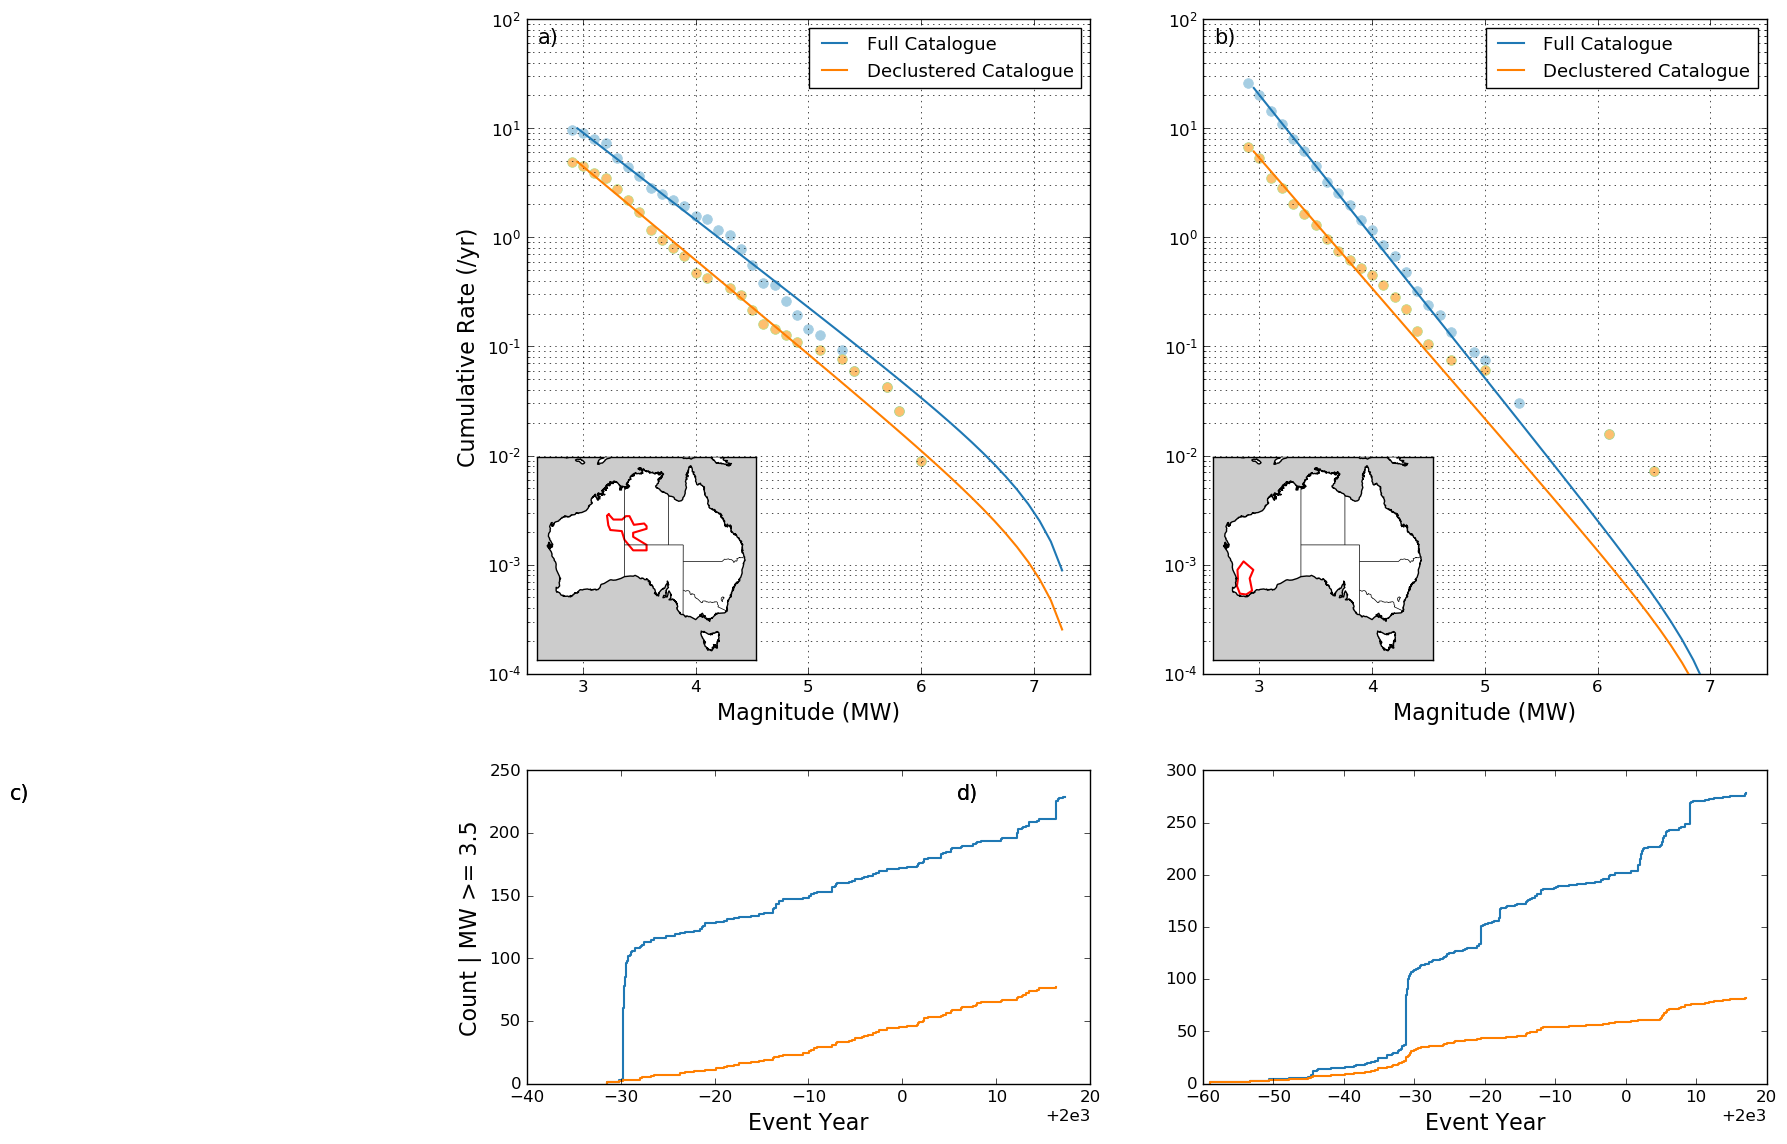
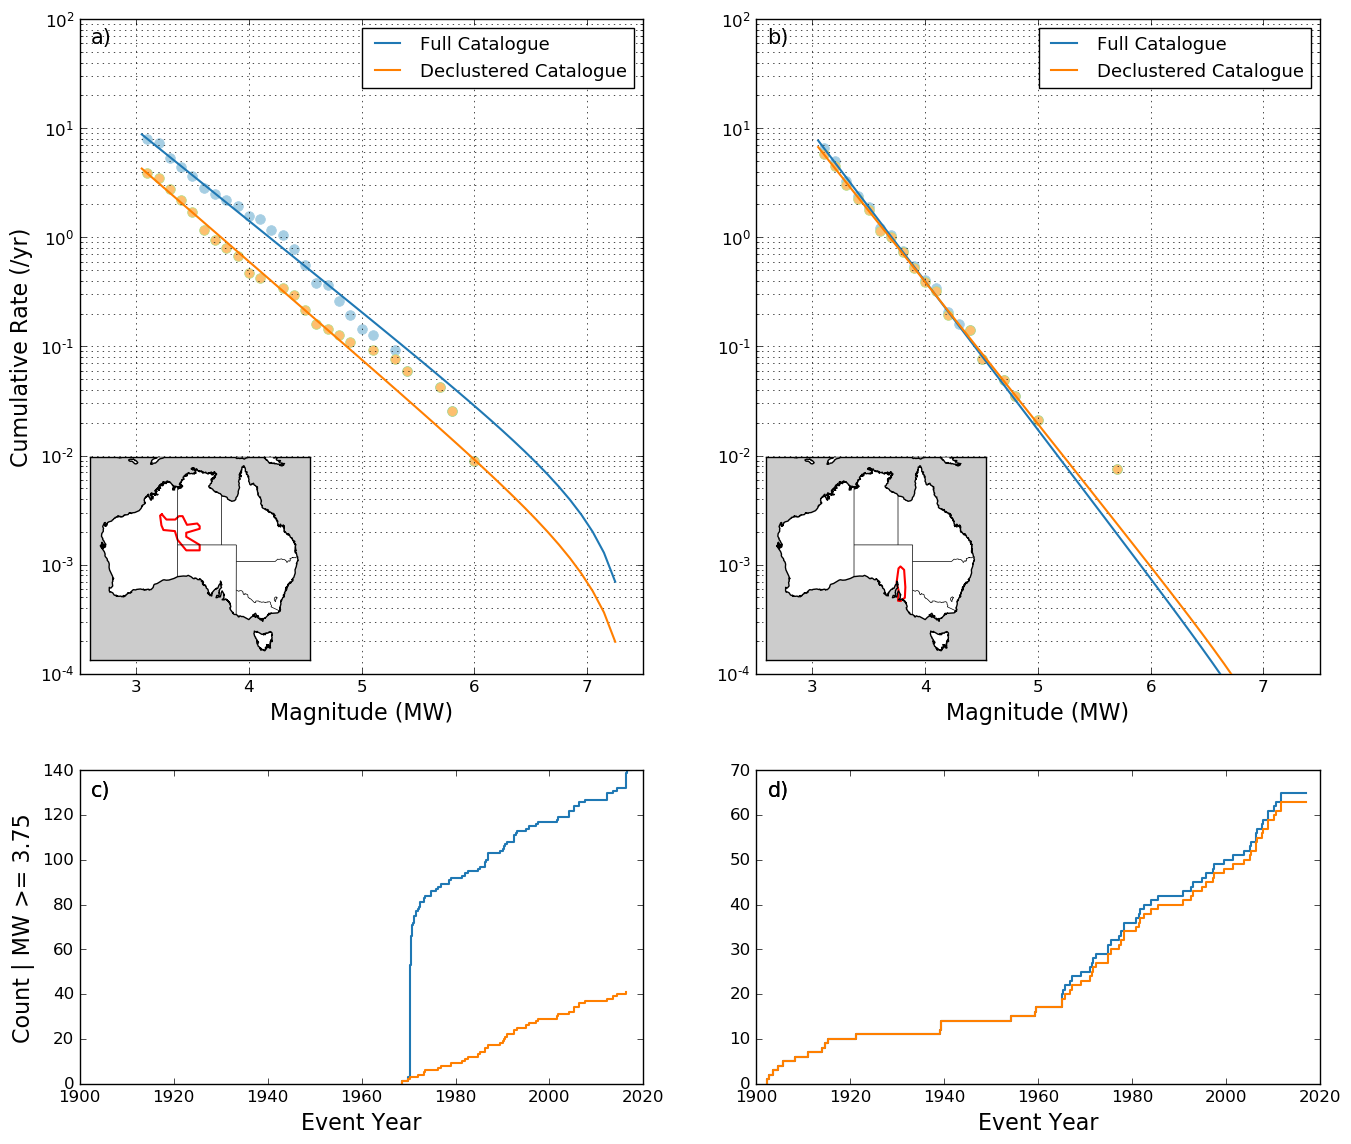
updating plotting codes

diff --git a/nsha18/final_overview/cmp_b_value_maps.py b/nsha18/final_overview/cmp_b_value_maps.py
@@ -1,0 +1,253 @@
+from numpy import array, arange, argsort, where, delete, hstack, sqrt, \
+                  unique, mean, percentile, log10, ceil, floor, \
+                  nan, isnan, around, diff, interp, exp, ones_like
+from os import path, sep, mkdir, getcwd, walk
+from shapely.geometry import Point, Polygon
+#from osgeo import ogr
+from datetime import datetime
+from sys import argv
+import shapefile
+import matplotlib.pyplot as plt
+from matplotlib import colors, colorbar, style
+from mpl_toolkits.basemap import Basemap
+import matplotlib as mpl
+import matplotlib.gridspec as gridspec
+#from mpl_toolkits.axes_grid1.inset_locator import inset_axes, zoomed_inset_axes
+
+style.use('classic')
+
+# import non-standard functions
+try:
+    from catalogue_tools import weichert_algorithm, aki_maximum_likelihood, bval2beta
+    from oq_tools import get_oq_incrementalMFD, beta2bval #, bval2beta
+    from mapping_tools import get_field_data, get_field_index, drawoneshapepoly, \
+                              drawshapepoly, labelpolygon, get_WGS84_area
+    #from catalogue.parsers import parse_ggcat
+    from catalogue.writers import ggcat2ascii
+    from mag_tools import nsha18_bilin_mw2ml
+    from gmt_tools import cpt2colormap 
+    from misc_tools import remove_last_cmap_colour, get_log_xy_locs
+    
+    #from misc_tools import listdir_extension
+    #from make_nsha_oq_inputs import write_oq_sourcefile
+except:
+    cwd = getcwd().split(sep)
+    pythonpath = sep.join(pt[0:-3])+sep+'tools'
+    print '\nSet environmental variables, e.g.:\n\nexport PYTHONPATH='+pythonpath+':$PYTHONPATH\n'
+
+        
+###############################################################################
+# set defaults
+###############################################################################
+fig = plt.figure(1, figsize=(18, 9))
+gs1 = gridspec.GridSpec(1, 2)
+gs1.update(wspace=0.025, hspace=0.05)
+
+if getcwd().startswith('/nas'):
+    cptfile = '/nas/active/ops/community_safety/ehp/georisk_earthquake/hazard/DATA/cpt/Paired_10.cpt'
+    shpfile1  = '/nas/active/ops/community_safety/ehp/georisk_earthquake/modelling/sandpits/tallen/NSHA2018/source_models/zones/2018_mw/NSHA13_Background/shapefiles/NSHA13_BACKGROUND_NSHA18_MFD.shp'
+    shpfile2  = '/nas/active/ops/community_safety/ehp/georisk_earthquake/modelling/sandpits/tallen/NSHA2018/source_models/zones/2018_mw/Domains_multi_mc/shapefiles/Domains_NSHA18_MFD.shp'
+
+else:
+    cptfile = '//Users//tallen//Documents//DATA//GMT//cpt//Paired_10.cpt'
+    
+ncolours = 11
+cmap, zvals = cpt2colormap(cptfile, ncolours)
+cmap = remove_last_cmap_colour(cmap)
+cs = (cmap(arange(ncolours-1)))
+
+###############################################################################
+# parse shapefile and make shapely objects
+###############################################################################
+
+def parse_shp_attributes(shpfile):
+    print 'Reading source shapefile...'
+    sf = shapefile.Reader(shpfile)
+    shapes = sf.shapes()
+    polygons = []
+    polygonsCopy = []
+    for poly in shapes:
+        polygons.append(Polygon(poly.points))
+        polygonsCopy.append(Polygon(poly.points))
+        
+    # get input arrays from shapefile
+    src_code = get_field_data(sf, 'CODE', 'str')
+    src_name = get_field_data(sf, 'SRC_NAME', 'str')
+    src_class = get_field_data(sf, 'CLASS', 'float')
+    src_rte_adj = get_field_data(sf, 'RTE_ADJ_F', 'float')
+    src_usd = get_field_data(sf, 'USD', 'float')
+    src_lsd = get_field_data(sf, 'LSD', 'float')
+    src_overwrite_lsd = get_field_data(sf, 'OW_LSD', 'float')
+    src_mmin = get_field_data(sf, 'MIN_MAG', 'float')
+    src_mmin_reg = get_field_data(sf, 'MIN_RMAG', 'float')
+    src_mmax = get_field_data(sf, 'MMAX_BEST', 'float')
+    src_mmax_u = get_field_data(sf, 'MMAX_UPPER', 'float')
+    src_mmax_l = get_field_data(sf, 'MMAX_LOWER', 'float')
+    src_bval = get_field_data(sf, 'BVAL_BEST', 'float')
+    src_bval_u = get_field_data(sf, 'BVAL_UPPER', 'float')
+    src_bval_l = get_field_data(sf, 'BVAL_LOWER', 'float')
+    src_n0 = get_field_data(sf, 'N0_BEST', 'float')
+    src_n0_u = get_field_data(sf, 'N0_UPPER', 'float')
+    src_n0_l = get_field_data(sf, 'N0_LOWER', 'float')
+    src_bval_fix = get_field_data(sf, 'BVAL_FIX', 'float')
+    src_bval_fix_sd = get_field_data(sf, 'BVAL_FIX_S', 'float') # too many chars - does not recognise "D"
+    src_mcomp = get_field_data(sf, 'MCOMP', 'str')
+    src_ycomp = get_field_data(sf, 'YCOMP', 'str')
+    src_shmax = get_field_data(sf, 'SHMAX', 'float')
+    src_shm_sig = get_field_data(sf, 'SHMAX_SIG', 'float')
+    src_ymax = get_field_data(sf, 'CAT_YMAX', 'float')
+    src_cat = get_field_data(sf, 'CAT_FILE', 'str')
+    sortind = argsort(src_code)
+    
+    return src_code, src_bval, src_n0, src_class, sf
+
+###############################################################################
+# make map1
+###############################################################################
+# parse data
+src_code, src_bval, src_n0, src_class, sf = parse_shp_attributes(shpfile1)
+
+ax = fig.add_subplot(gs1[0])
+
+# set national-scale basemap
+llcrnrlat = -45
+urcrnrlat = 0
+llcrnrlon = 105
+urcrnrlon = 155
+lon_0 = mean([llcrnrlon, urcrnrlon])
+lat_1 = percentile([llcrnrlat, urcrnrlat], 25)
+lat_2 = percentile([llcrnrlat, urcrnrlat], 75)
+
+m2 = Basemap(llcrnrlon=llcrnrlon,llcrnrlat=llcrnrlat, \
+            urcrnrlon=urcrnrlon,urcrnrlat=urcrnrlat,
+            projection='lcc',lat_1=lat_1,lat_2=lat_2,lon_0=lon_0,
+            resolution='l',area_thresh=1000.)
+
+# annotate
+m2.drawcoastlines(linewidth=0.5,color='0.25')
+m2.drawcountries()
+m2.drawstates()
+
+# draw parallels and meridians.
+ll_space = 6
+m2.drawparallels(arange(-90.,90.,ll_space/2.0), labels=[0,0,0,0],fontsize=10, dashes=[2, 2], color='0.5', linewidth=0.5)
+m2.drawmeridians(arange(0.,360.,ll_space), labels=[0,0,0,0], fontsize=10, dashes=[2, 2], color='0.5', linewidth=0.5)
+
+# get colour index
+ncolours=10
+b_min = 0.8
+b_max = 1.3
+
+cindex = []
+
+# loop thru b values
+for b, n0 in zip(src_bval, src_n0):
+    if not isnan(n0):
+        idx = interp(b, [b_min, b_max], [0, ncolours-1])
+        cindex.append(int(round(idx)))
+    
+# get cmap
+cmap = plt.get_cmap('YlOrRd', ncolours)
+
+# plt source zone boundary
+drawshapepoly(m2, plt, sf, cindex=cindex, cmap=cmap, ncolours=ncolours, fillshape=True)
+
+labelpolygon(m2, plt, sf, 'CODE', value='CBGZ', col='k', fweight='normal', fsize=14, addOutline=False)
+x,y = m2(130., -35.35)
+plt.text(x, y, 'EBGZ', va='center', ha='center', fontsize=14)
+
+xlim = ax.get_xlim()
+xtxt = xlim[1] * 0.02
+ylim = ax.get_ylim()
+ytxt = ylim[1] * 0.02
+plt.text(xtxt, ytxt, 'a)', fontsize=17, va='bottom', ha='left')
+
+# label polygons
+#labelpolygon(m2, plt, sf, 'CODE')
+
+###############################################################################
+# make map2
+###############################################################################
+
+src_code, src_bval, src_n0, src_class, sf = parse_shp_attributes(shpfile2)
+
+ax = fig.add_subplot(gs1[1])
+
+# set national-scale basemap
+llcrnrlat = -45
+urcrnrlat = 0
+llcrnrlon = 105
+urcrnrlon = 155
+lon_0 = mean([llcrnrlon, urcrnrlon])
+lat_1 = percentile([llcrnrlat, urcrnrlat], 25)
+lat_2 = percentile([llcrnrlat, urcrnrlat], 75)
+
+m2 = Basemap(llcrnrlon=llcrnrlon,llcrnrlat=llcrnrlat, \
+            urcrnrlon=urcrnrlon,urcrnrlat=urcrnrlat,
+            projection='lcc',lat_1=lat_1,lat_2=lat_2,lon_0=lon_0,
+            resolution='l',area_thresh=1000.)
+
+# annotate
+m2.drawcoastlines(linewidth=0.5,color='0.25')
+m2.drawcountries()
+m2.drawstates()
+
+# draw parallels and meridians.
+ll_space = 6
+m2.drawparallels(arange(-90.,90.,ll_space/2.0), labels=[0,0,0,0],fontsize=10, dashes=[2, 2], color='0.5', linewidth=0.5)
+m2.drawmeridians(arange(0.,360.,ll_space), labels=[0,0,0,0], fontsize=10, dashes=[2, 2], color='0.5', linewidth=0.5)
+
+# get colour index
+ncolours=10
+b_min = 0.8
+b_max = 1.3
+
+cindex = []
+
+# loop thru b values
+for b, n0 in zip(src_bval, src_n0):
+    if not isnan(n0):
+        idx = interp(b, [b_min, b_max], [0, ncolours-1])
+        cindex.append(int(round(idx)))
+    
+# get cmap
+cmap = plt.get_cmap('YlOrRd', ncolours)
+
+# plt source zone boundary
+drawshapepoly(m2, plt, sf, cindex=cindex, cmap=cmap, ncolours=ncolours, fillshape=True)
+
+# label polygons
+labelpolygon(m2, plt, sf, 'CODE', value='OSGB', col='w', fweight='normal', fsize=14, addOutline=False)
+labelpolygon(m2, plt, sf, 'CODE', value='GAWL', col='w', fweight='normal', fsize=14, addOutline=False)
+labelpolygon(m2, plt, sf, 'CODE', value='FMLR', col='w', fweight='normal', fsize=14, addOutline=False)
+
+xlim = ax.get_xlim()
+xtxt = xlim[1] * 0.02
+ylim = ax.get_ylim()
+ytxt = ylim[1] * 0.02
+plt.text(xtxt, ytxt, 'b)', fontsize=17, va='bottom', ha='left')
+
+###############################################################################
+# finish maps
+###############################################################################
+
+# set colorbar
+plt.gcf().subplots_adjust(bottom=0.1)
+cax = fig.add_axes([0.33,0.05,0.34,0.035]) # setup colorbar axes.
+norm = colors.Normalize(vmin=b_min, vmax=b_max)
+cb = colorbar.ColorbarBase(cax, cmap=cmap, norm=norm, orientation='horizontal')
+
+# set cb labels
+#linticks = array([0.01, 0.03, 0.1, 0.3 ])
+ticks = arange(b_min, b_max+0.1, 0.1)
+cb.set_ticks(ticks)
+labels = [str('%0.1f' % x) for x in ticks]
+
+#cb.set_ticklabels(labels, fontsize=10)
+cb.ax.set_xticklabels(labels, fontsize=15)
+cb.set_label('b-value', fontsize=17)
+  
+# save figure
+plt.savefig('map_b_val.png', fmt='png', bbox_inches='tight')
+    
+plt.show()                

diff --git a/nsha18/final_overview/test_decluster_mfds.py b/nsha18/final_overview/test_decluster_mfds.py
@@ -47,6 +47,7 @@ def timedelta2days_hours_minutes(td):
 
 bin_width = 0.1
 shpfile  = '/Users/tallen/Documents/Geoscience_Australia/NSHA2018/source_models/zones/shapefiles/NSHA13/NSHA13_NSHA18.shp'
+#shpfile  = '/Users/tallen/Documents/Geoscience_Australia/NSHA2018/source_models/zones/shapefiles/ARUP/ARUP_NSHA18.shp'
 
 magLabels = ['Full Catalogue', 'Declustered Catalogue']
 
@@ -220,31 +221,25 @@ fig = plt.figure(1, figsize=(16, 18))
 k = 0
 for i in srcidx:
     #print '\nFitting MFD for', src_code[i]
-    
-    if i == 49 or i == 51:
+    # 81 = dalton/gunning; 71 = FLDR; 46 = Otway/Gipps; 51 = SWSZ
+    if i == 49 or i == 71:
         k += 1
         ax = fig.add_subplot(2,2,k)
     
         # get completeness periods for zone
         ycomps = array([int(x) for x in src_ycomp[i].split(';')])
         mcomps_mw = array([float(x) for x in src_mcomp[i].split(';')])
-        mcomps_mw[0] = 2.95
-        mcomps_ml = [nsha18_bilin_mw2ml(mw) for mw in mcomps_mw]
-        mcomps_ml[0] = 2.95
+        mcomps_mw[0] = 3.15
         
         print 'if ml based, adjust Mcomp'
         
         # get mag range for zonea
         mcompmin_mw = min(mcomps_mw)
-        mcompmin_ml = min(mcomps_ml)
                 
         # convert min Mx to MW
-        mcompminml = around(ceil(mcompmin_ml*10.) / 10., decimals=1)
-        mcompminml = 2.95
         mcompminmw = around(ceil(mcompmin_mw*10.) / 10., decimals=1)
-        mcompminmw = 2.95
+        mcompminmw = 3.15
         mrng_mw = arange(mcompminmw-bin_width/2, src_mmax[i], bin_width)
-        mrng_ml = arange(mcompminml-bin_width/2, src_mmax[i], bin_width)
                 
         # set null values to avoid plotting issues later
         bval = 1.
@@ -380,7 +375,7 @@ for i in srcidx:
             dates_ge_3 = []
             mvect, mxvect, tvect, dec_tvect, ev_dict = get_events_in_poly_simple(nshaCat, poly)
             for omag, otime in zip(mvect, tvect):
-                if omag >= 3.5 and otime.year >= dcut:
+                if omag >= 3.75 and otime.year >= dcut:
                     # get decimal years
                     dates_ge_3.append(otime.year + float(otime.strftime('%j'))/365.) # ignore leap years for now
                 
@@ -391,23 +386,30 @@ for i in srcidx:
             # make cummulative plot
             plt.step(dates_ge_3[didx], range(0, len(didx)), c=cs[2*jj+1], lw=1.5)
             plt.xlabel('Event Year', fontsize=16)
-                
-            if k == 1:
-                plt.ylabel('Count | MW >= 3.5', fontsize=16)
-                plt.text(1905, 240, 'c)', fontsize=15, va='top', ha='left')
-            else:
-                plt.text(1905, 288, 'd)', fontsize=15, va='top', ha='left')
-            
-            # set xlims
-            tlim = ax.get_xlim()
-            tlim = [int(round(x)) for x in tlim] # converting to ints
-            
-            plt.xlim(tlim)
             
             # sey ylim to zero
+            minyear = 1900
+            plt.xlim([minyear, 2020])
             ylims = array(ax.get_ylim())
+            xlims = array(ax.get_xlim())
             ylims[0] = 0
             plt.ylim(ylims)
+            xlet = xlims[0]+(xlims[1]-xlims[0])*0.02
+            if k == 1:
+                plt.ylabel('Count | MW >= 3.75', fontsize=16)
+                plt.text(xlet, ylims[1]*0.97, 'c)', fontsize=15, va='top', ha='left')
+            else:
+                plt.text(xlet, ylims[1]*0.97, 'd)', fontsize=15, va='top', ha='left')
+            
+            # set xlims & labels
+            xticks = range(minyear, 2021, 20)
+            xlabels = [str('%0.0f' % x) for x in xticks]
+            ax.set_xticks(xticks)
+            ax.set_xticklabels(xlabels) #, fontsize=10)
+            
+            plt.grid()
+            
+            
         
         # save figure
 #plt.savefig(path.join('cat_mfd_test', src_code[i]+'_mfdplt.png'), fmt='png', bbox_inches='tight')
